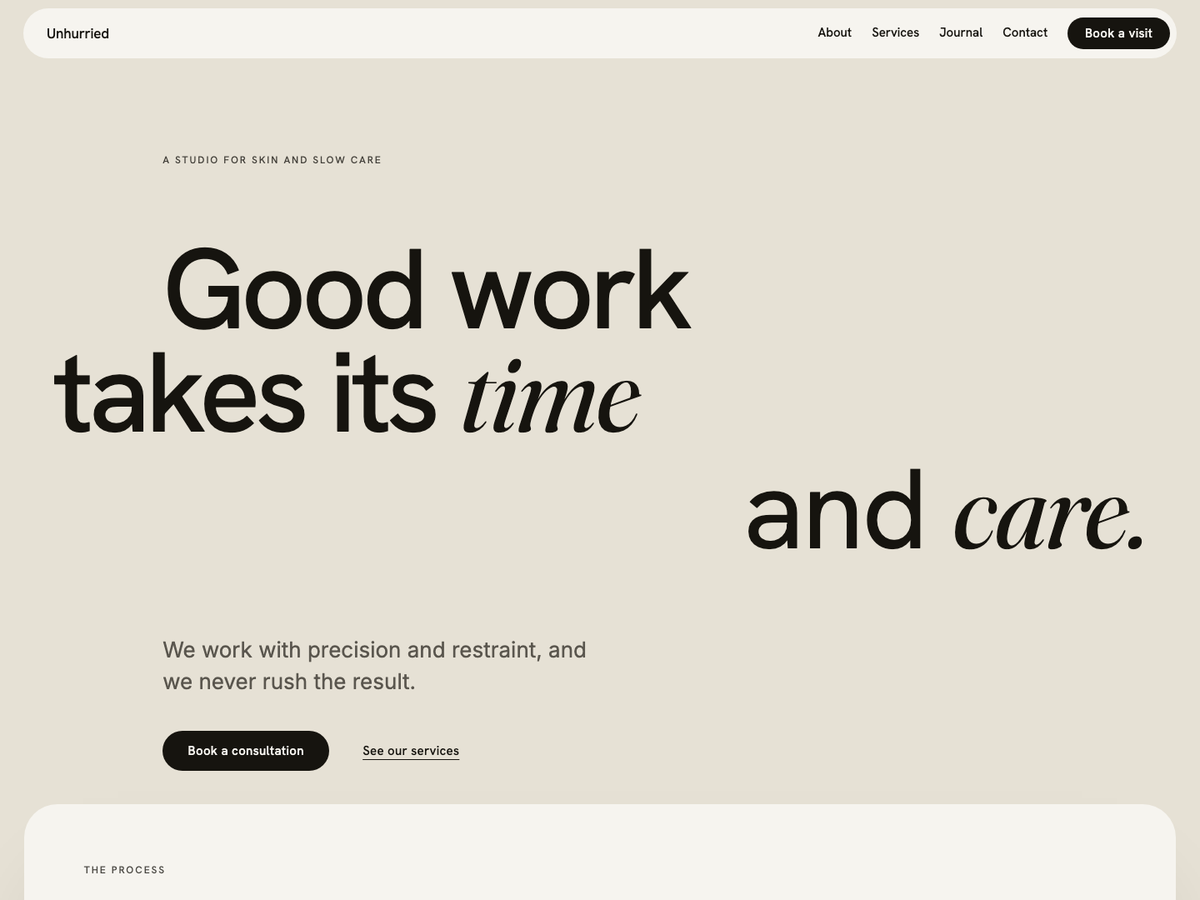
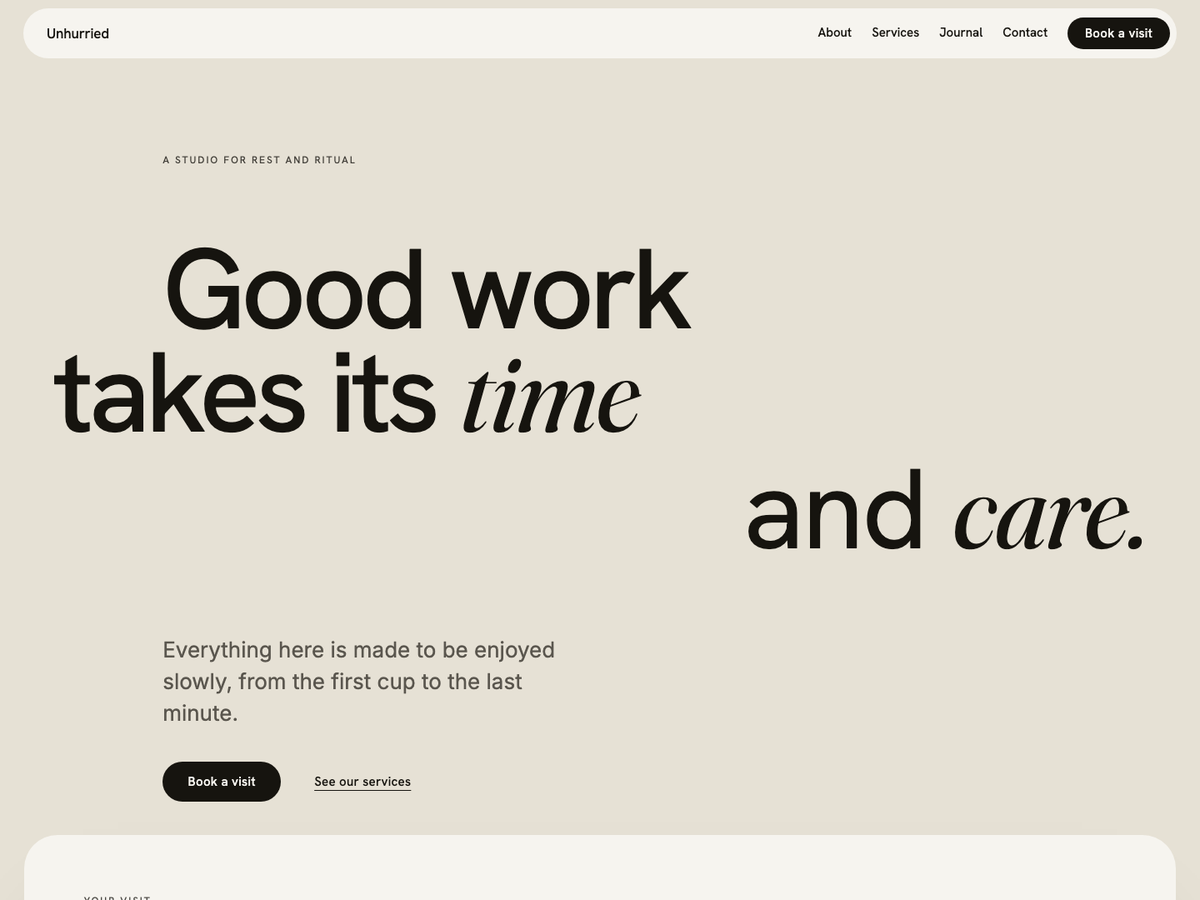
Neutral rest-and-ritual copy, author Switch Case Studio

Changed region(s): [[0.0, 0.7156, 0.9867, 0.9333], [0.2158, 0.1556, 0.3083, 0.1867], [0.0617, 0.9644, 0.1233, 1.0]]

diff --git a/style.css b/style.css
@@ -1,14 +1,13 @@
 /*
 Theme Name: Unhurried
-Theme URI: https://github.com/Object-ions/unhurried
-Author: Object-ions
-Author URI: https://github.com/Object-ions
-Description: Unhurried is a calm, editorial block theme for studios, clinics, spas and makers who sell care rather than speed. Warm bone and ink surfaces, floating panels that rise over the page, oversized display type with Fraunces italic accent words, and a gallery-monochrome image treatment give every page the feel of a printed lookbook. It ships with full-page patterns for a homepage, about, services and contact page, plus heroes, process steps, service accordions, pricing tiers, FAQs and a journal layout, all editable in the Site Editor.
+Author: Switch Case Studio
+Author URI: https://switchcasestudio.com
+Description: Unhurried is a calm, editorial block theme for studios, clinics, spas and makers who sell care rather than speed. Warm bone and ink surfaces, floating panels that rise over the page, oversized display type with Fraunces italic accent words, and a gallery-monochrome image treatment give every page the feel of a printed lookbook. It ships with full-page patterns for a homepage, about, services and contact page, plus heroes, visit steps, service accordions, membership tiers, FAQs and a stories layout, all editable in the Site Editor.
 Requires at least: 6.6
 Tested up to: 6.8
 Requires PHP: 7.4
 Version: 1.0.0
-Copyright: (c) 2026 Object-ions
+Copyright: (c) 2026 Moshe Atia Poston, Switch Case Studio
 License: GNU General Public License v2 or later
 License URI: https://www.gnu.org/licenses/gpl-2.0.html
 Text Domain: unhurried
@@ -111,7 +110,7 @@ img { height: auto; }
 }
 
 /* Small floating note card */
-.unhurried-note { max-width: min(100%, 26rem); }
+.unhurried-note { max-width: min(100%, 26rem); margin-left: 0 !important; }
 
 /* Staggered gallery row */
 .unhurried-stagger > .wp-block-image:nth-child(even),

diff --git a/patterns/process-panel.php b/patterns/process-panel.php
@@ -12,10 +12,10 @@
  */
 
 $unhurried_steps = array(
-	array( __( 'Consultation', 'unhurried' ), __( 'We listen first and look closely, then agree on what is worth doing.', 'unhurried' ) ),
-	array( __( 'A written plan', 'unhurried' ), __( 'Every step, every visit and every price, set out before anything begins.', 'unhurried' ) ),
-	array( __( 'Measured care', 'unhurried' ), __( 'Treatment at the pace your skin needs, never more than it needs.', 'unhurried' ) ),
-	array( __( 'Aftercare', 'unhurried' ), __( 'A follow-up call, clear home care and time to see the result settle.', 'unhurried' ) ),
+	array( __( 'Arrive', 'unhurried' ), __( 'Leave the day at the door. We will take it from here.', 'unhurried' ) ),
+	array( __( 'Settle in', 'unhurried' ), __( 'Tea, a warm room and ten quiet minutes before anything starts.', 'unhurried' ) ),
+	array( __( 'The ritual', 'unhurried' ), __( 'An hour or two that belongs entirely to you.', 'unhurried' ) ),
+	array( __( 'Take it home', 'unhurried' ), __( 'Something small to take home, and a reason to come back.', 'unhurried' ) ),
 );
 ?>
 <!-- wp:group {"metadata":{"name":"<?php echo esc_attr_x( 'Process', 'Pattern block name', 'unhurried' ); ?>"},"align":"full","className":"is-style-section-ground","style":{"spacing":{"padding":{"top":"0","bottom":"var:preset|spacing|80","left":"clamp(12px, 2vw, 44px)","right":"clamp(12px, 2vw, 44px)"},"margin":{"top":"0","bottom":"0"}}},"layout":{"type":"default"}} -->
@@ -25,10 +25,10 @@ $unhurried_steps = array(
 		<!-- wp:group {"style":{"spacing":{"blockGap":"var:preset|spacing|50"}},"layout":{"type":"default"}} -->
 		<div class="wp-block-group">
 			<!-- wp:paragraph {"className":"is-style-eyebrow"} -->
-			<p class="is-style-eyebrow"><?php esc_html_e( 'The process', 'unhurried' ); ?></p>
+			<p class="is-style-eyebrow"><?php esc_html_e( 'Your visit', 'unhurried' ); ?></p>
 			<!-- /wp:paragraph -->
 			<!-- wp:heading {"fontSize":"xx-large"} -->
-			<h2 class="wp-block-heading has-xx-large-font-size"><?php echo wp_kses( __( 'Beauty, restored<br><em>not</em> acquired', 'unhurried' ), array( 'em' => array(), 'br' => array() ) ); ?></h2>
+			<h2 class="wp-block-heading has-xx-large-font-size"><?php echo wp_kses( __( 'How a visit<br><em>unfolds</em>', 'unhurried' ), array( 'em' => array(), 'br' => array() ) ); ?></h2>
 			<!-- /wp:heading -->
 		</div>
 		<!-- /wp:group -->
@@ -54,12 +54,12 @@ $unhurried_steps = array(
 		<!-- wp:group {"style":{"spacing":{"blockGap":"var:preset|spacing|60"}},"layout":{"type":"flex","flexWrap":"wrap","justifyContent":"space-between","verticalAlignment":"bottom"}} -->
 		<div class="wp-block-group">
 			<!-- wp:paragraph {"className":"is-style-statement","style":{"layout":{"selfStretch":"fixed","flexSize":"min(100%, 22ch)"}}} -->
-			<p class="is-style-statement"><?php echo wp_kses( __( 'One measured arc of care, <em>every price</em> visible before you commit.', 'unhurried' ), array( 'em' => array() ) ); ?></p>
+			<p class="is-style-statement"><?php echo wp_kses( __( 'No clocks on the walls, <em>no rush</em> at the door.', 'unhurried' ), array( 'em' => array() ) ); ?></p>
 			<!-- /wp:paragraph -->
 			<!-- wp:buttons -->
 			<div class="wp-block-buttons">
 				<!-- wp:button -->
-				<div class="wp-block-button"><a class="wp-block-button__link wp-element-button" href="#"><?php esc_html_e( 'Start with a consultation', 'unhurried' ); ?></a></div>
+				<div class="wp-block-button"><a class="wp-block-button__link wp-element-button" href="#"><?php esc_html_e( 'Plan a visit', 'unhurried' ); ?></a></div>
 				<!-- /wp:button -->
 			</div>
 			<!-- /wp:buttons -->

diff --git a/patterns/hero-staggered.php b/patterns/hero-staggered.php
@@ -1,7 +1,7 @@
 <?php
 /**
- * Title: Hero, measured type
- * Slug: unhurried/hero-measured
+ * Title: Hero, staggered type
+ * Slug: unhurried/hero-staggered
  * Categories: unhurried_hero, featured
  * Keywords: hero, header, intro, headline
  * Viewport width: 1400
@@ -15,7 +15,7 @@
 <!-- wp:group {"metadata":{"name":"<?php echo esc_attr_x( 'Hero', 'Pattern block name', 'unhurried' ); ?>"},"align":"full","className":"is-style-section-ground","style":{"spacing":{"padding":{"top":"var:preset|spacing|80","bottom":"calc(clamp(80px, 11vw, 160px) + 2.5rem)"},"margin":{"top":"0","bottom":"0"},"blockGap":"0"}},"layout":{"type":"constrained","contentSize":"1360px"}} -->
 <div class="wp-block-group alignfull is-style-section-ground" style="margin-top:0;margin-bottom:0;padding-top:var(--wp--preset--spacing--80);padding-bottom:calc(clamp(80px, 11vw, 160px) + 2.5rem)">
 	<!-- wp:paragraph {"className":"is-style-eyebrow unhurried-indent unhurried-reveal","style":{"spacing":{"margin":{"bottom":"clamp(2rem, 8vh, 6rem)"}}}} -->
-	<p class="is-style-eyebrow unhurried-indent unhurried-reveal" style="margin-bottom:clamp(2rem, 8vh, 6rem)"><?php esc_html_e( 'A studio for skin and slow care', 'unhurried' ); ?></p>
+	<p class="is-style-eyebrow unhurried-indent unhurried-reveal" style="margin-bottom:clamp(2rem, 8vh, 6rem)"><?php esc_html_e( 'A studio for rest and ritual', 'unhurried' ); ?></p>
 	<!-- /wp:paragraph -->
 	<!-- wp:heading {"level":1,"className":"unhurried-first-indent unhurried-reveal","style":{"typography":{"lineHeight":"0.9","letterSpacing":"-0.04em"}},"fontSize":"huge"} -->
 	<h1 class="wp-block-heading unhurried-first-indent unhurried-reveal has-huge-font-size" style="letter-spacing:-0.04em;line-height:0.9"><?php echo wp_kses( __( 'Good work<br>takes its <em>time</em>', 'unhurried' ), array( 'em' => array(), 'br' => array() ) ); ?></h1>
@@ -26,12 +26,12 @@
 	<!-- wp:group {"className":"unhurried-indent unhurried-reveal","style":{"spacing":{"margin":{"top":"clamp(2.5rem, 8vh, 6rem)"},"blockGap":"var:preset|spacing|60"}},"layout":{"type":"constrained","contentSize":"32ch","justifyContent":"left"}} -->
 	<div class="wp-block-group unhurried-indent unhurried-reveal" style="margin-top:clamp(2.5rem, 8vh, 6rem)">
 		<!-- wp:paragraph {"textColor":"contrast-2","fontSize":"large","style":{"typography":{"lineHeight":"1.45"}}} -->
-		<p class="has-contrast-2-color has-text-color has-large-font-size" style="line-height:1.45"><?php esc_html_e( 'We work with precision and restraint, and we never rush the result.', 'unhurried' ); ?></p>
+		<p class="has-contrast-2-color has-text-color has-large-font-size" style="line-height:1.45"><?php esc_html_e( 'Everything here is made to be enjoyed slowly, from the first cup to the last minute.', 'unhurried' ); ?></p>
 		<!-- /wp:paragraph -->
 		<!-- wp:buttons {"style":{"spacing":{"blockGap":{"left":"var:preset|spacing|60"}}}} -->
 		<div class="wp-block-buttons">
 			<!-- wp:button -->
-			<div class="wp-block-button"><a class="wp-block-button__link wp-element-button" href="#"><?php esc_html_e( 'Book a consultation', 'unhurried' ); ?></a></div>
+			<div class="wp-block-button"><a class="wp-block-button__link wp-element-button" href="#"><?php esc_html_e( 'Book a visit', 'unhurried' ); ?></a></div>
 			<!-- /wp:button -->
 			<!-- wp:button {"className":"is-style-text-link"} -->
 			<div class="wp-block-button is-style-text-link"><a class="wp-block-button__link wp-element-button" href="#"><?php esc_html_e( 'See our services', 'unhurried' ); ?></a></div>

diff --git a/patterns/team.php b/patterns/team.php
@@ -1,18 +1,18 @@
 <?php
 /**
- * Title: Practitioner feature
+ * Title: Team feature
  * Slug: unhurried/team
  * Categories: team, about
- * Keywords: team, practitioner, founder, about, portrait
+ * Keywords: team, people, founder, about, portrait
  * Viewport width: 1400
- * Description: One large portrait beside a statement about the person behind the work.
+ * Description: One large image beside a short introduction to the people who run the place.
  *
  * @package Unhurried
  * @since 1.0.0
  */
 
 ?>
-<!-- wp:group {"metadata":{"name":"<?php echo esc_attr_x( 'Practitioner', 'Pattern block name', 'unhurried' ); ?>"},"align":"full","className":"is-style-section-ink","style":{"spacing":{"padding":{"top":"var:preset|spacing|90","bottom":"var:preset|spacing|90"},"margin":{"top":"0","bottom":"0"}}},"layout":{"type":"constrained","contentSize":"1360px"}} -->
+<!-- wp:group {"metadata":{"name":"<?php echo esc_attr_x( 'Team', 'Pattern block name', 'unhurried' ); ?>"},"align":"full","className":"is-style-section-ink","style":{"spacing":{"padding":{"top":"var:preset|spacing|90","bottom":"var:preset|spacing|90"},"margin":{"top":"0","bottom":"0"}}},"layout":{"type":"constrained","contentSize":"1360px"}} -->
 <div class="wp-block-group alignfull is-style-section-ink" style="margin-top:0;margin-bottom:0;padding-top:var(--wp--preset--spacing--90);padding-bottom:var(--wp--preset--spacing--90)">
 	<!-- wp:columns {"verticalAlignment":"center","style":{"spacing":{"blockGap":{"top":"var:preset|spacing|60","left":"var:preset|spacing|80"}}}} -->
 	<div class="wp-block-columns are-vertically-aligned-center">
@@ -26,13 +26,13 @@
 		<!-- wp:column {"verticalAlignment":"center","width":"60%","className":"unhurried-reveal","style":{"spacing":{"blockGap":"var:preset|spacing|60"}}} -->
 		<div class="wp-block-column is-vertically-aligned-center unhurried-reveal" style="flex-basis:60%">
 			<!-- wp:paragraph {"className":"is-style-eyebrow"} -->
-			<p class="is-style-eyebrow"><?php esc_html_e( 'The practice', 'unhurried' ); ?></p>
+			<p class="is-style-eyebrow"><?php esc_html_e( 'Our team', 'unhurried' ); ?></p>
 			<!-- /wp:paragraph -->
 			<!-- wp:heading {"fontSize":"huge","style":{"typography":{"lineHeight":"0.92","letterSpacing":"-0.04em"}}} -->
-			<h2 class="wp-block-heading has-huge-font-size" style="letter-spacing:-0.04em;line-height:0.92"><?php echo wp_kses( __( 'The hands behind the <em>work</em>', 'unhurried' ), array( 'em' => array() ) ); ?></h2>
+			<h2 class="wp-block-heading has-huge-font-size" style="letter-spacing:-0.04em;line-height:0.92"><?php echo wp_kses( __( 'The people you will <em>meet</em>', 'unhurried' ), array( 'em' => array() ) ); ?></h2>
 			<!-- /wp:heading -->
 			<!-- wp:paragraph {"fontSize":"large","style":{"typography":{"lineHeight":"1.45"}}} -->
-			<p class="has-large-font-size" style="line-height:1.45"><?php esc_html_e( 'Licensed, experienced and deliberately few. You will see the same practitioner from first consultation to final follow-up.', 'unhurried' ); ?></p>
+			<p class="has-large-font-size" style="line-height:1.45"><?php esc_html_e( 'Three of us, each with a decade of practice. You will get to know us by name.', 'unhurried' ); ?></p>
 			<!-- /wp:paragraph -->
 		</div>
 		<!-- /wp:column -->

diff --git a/patterns/statement-cover.php b/patterns/statement-cover.php
@@ -3,7 +3,7 @@
  * Title: Statement on image, with note card
  * Slug: unhurried/statement-cover
  * Categories: featured, about
- * Keywords: philosophy, statement, about, cover, quote
+ * Keywords: values, statement, about, cover, quote
  * Viewport width: 1400
  * Description: A dark full-bleed image with a right-aligned two-line statement and a frosted note card in the lower left.
  *
@@ -17,20 +17,20 @@
 	<!-- wp:group {"className":"unhurried-reveal","style":{"spacing":{"blockGap":"var:preset|spacing|50","margin":{"bottom":"var:preset|spacing|80"}}},"layout":{"type":"constrained","contentSize":"760px","justifyContent":"right"}} -->
 	<div class="wp-block-group unhurried-reveal" style="margin-bottom:var(--wp--preset--spacing--80)">
 		<!-- wp:paragraph {"align":"right","className":"is-style-eyebrow","textColor":"base"} -->
-		<p class="has-text-align-right is-style-eyebrow has-base-color has-text-color"><?php esc_html_e( 'Our philosophy', 'unhurried' ); ?></p>
+		<p class="has-text-align-right is-style-eyebrow has-base-color has-text-color"><?php esc_html_e( 'What we believe', 'unhurried' ); ?></p>
 		<!-- /wp:paragraph -->
 		<!-- wp:heading {"textAlign":"right","textColor":"base","fontSize":"xx-large"} -->
-		<h2 class="wp-block-heading has-text-align-right has-base-color has-text-color has-xx-large-font-size"><?php echo wp_kses( __( '<em>The art of</em><br>restoration', 'unhurried' ), array( 'em' => array(), 'br' => array() ) ); ?></h2>
+		<h2 class="wp-block-heading has-text-align-right has-base-color has-text-color has-xx-large-font-size"><?php echo wp_kses( __( '<em>Slow</em> is<br>a practice', 'unhurried' ), array( 'em' => array(), 'br' => array() ) ); ?></h2>
 		<!-- /wp:heading -->
 		<!-- wp:paragraph {"align":"right","textColor":"base","fontSize":"medium"} -->
-		<p class="has-text-align-right has-base-color has-text-color has-medium-font-size"><?php esc_html_e( 'Beautiful results come from a thoughtful mix of art and science, and from restraint before intervention.', 'unhurried' ); ?></p>
+		<p class="has-text-align-right has-base-color has-text-color has-medium-font-size"><?php esc_html_e( 'We leave space around every booking, so nobody watches the clock, including us.', 'unhurried' ); ?></p>
 		<!-- /wp:paragraph -->
 	</div>
 	<!-- /wp:group -->
 	<!-- wp:group {"className":"is-style-glass unhurried-note unhurried-reveal","style":{"spacing":{"blockGap":"var:preset|spacing|40"}},"layout":{"type":"default"}} -->
 	<div class="wp-block-group is-style-glass unhurried-note unhurried-reveal">
 		<!-- wp:paragraph {"fontSize":"small","textColor":"base"} -->
-		<p class="has-base-color has-text-color has-small-font-size"><?php esc_html_e( 'Every plan is tested against one question: does this serve the person in front of us, in their own proportion?', 'unhurried' ); ?></p>
+		<p class="has-base-color has-text-color has-small-font-size"><?php esc_html_e( 'Arrive ten minutes early. The kettle is always on.', 'unhurried' ); ?></p>
 		<!-- /wp:paragraph -->
 	</div>
 	<!-- /wp:group -->

diff --git a/patterns/services-accordion.php b/patterns/services-accordion.php
@@ -12,10 +12,10 @@
  */
 
 $unhurried_services = array(
-	array( __( 'Signature facial', 'unhurried' ), __( 'Ninety minutes of cleansing, gentle exfoliation and massage, fitted to your skin on the day.', 'unhurried' ) ),
-	array( __( 'Skin consultation', 'unhurried' ), __( 'A close look at your skin, your routine and your goals, with a written plan to take home.', 'unhurried' ) ),
-	array( __( 'Brightening peel', 'unhurried' ), __( 'A light, measured peel for tone and texture, with little to no downtime.', 'unhurried' ) ),
-	array( __( 'Seasonal programme', 'unhurried' ), __( 'Four visits across three months, planned together and paced for lasting change.', 'unhurried' ) ),
+	array( __( 'Signature massage', 'unhurried' ), __( 'Ninety minutes, warm oil and a pace set entirely by you.', 'unhurried' ) ),
+	array( __( 'First visit', 'unhurried' ), __( 'An easy first visit to talk through what you would like from us.', 'unhurried' ) ),
+	array( __( 'Hot stone ritual', 'unhurried' ), __( 'Warm stones and slow pressure to loosen a long week.', 'unhurried' ) ),
+	array( __( 'Ritual for two', 'unhurried' ), __( 'A shared room and two therapists, for you and someone you like.', 'unhurried' ) ),
 );
 ?>
 <!-- wp:cover {"url":"<?php echo esc_url( get_theme_file_uri( 'assets/images/drape.webp' ) ); ?>","dimRatio":50,"overlayColor":"contrast","minHeight":860,"minHeightUnit":"px","isDark":true,"metadata":{"name":"<?php echo esc_attr_x( 'Services', 'Pattern block name', 'unhurried' ); ?>"},"align":"full","className":"unhurried-mono","style":{"spacing":{"padding":{"top":"var:preset|spacing|80","bottom":"var:preset|spacing|80"},"margin":{"top":"0","bottom":"0"}}},"layout":{"type":"constrained","contentSize":"1360px"}} -->
@@ -25,10 +25,10 @@ $unhurried_services = array(
 		<!-- wp:column {"verticalAlignment":"center","width":"45%","style":{"spacing":{"blockGap":"var:preset|spacing|50"}}} -->
 		<div class="wp-block-column is-vertically-aligned-center" style="flex-basis:45%">
 			<!-- wp:paragraph {"className":"is-style-eyebrow","textColor":"base"} -->
-			<p class="is-style-eyebrow has-base-color has-text-color"><?php esc_html_e( 'Our services', 'unhurried' ); ?></p>
+			<p class="is-style-eyebrow has-base-color has-text-color"><?php esc_html_e( 'Rituals', 'unhurried' ); ?></p>
 			<!-- /wp:paragraph -->
 			<!-- wp:heading {"textColor":"base","fontSize":"xx-large"} -->
-			<h2 class="wp-block-heading has-base-color has-text-color has-xx-large-font-size"><?php echo wp_kses( __( 'A boutique experience,<br>made-to-measure <em>results</em>', 'unhurried' ), array( 'em' => array(), 'br' => array() ) ); ?></h2>
+			<h2 class="wp-block-heading has-base-color has-text-color has-xx-large-font-size"><?php echo wp_kses( __( 'Rituals for<br>the <em>whole</em> week', 'unhurried' ), array( 'em' => array(), 'br' => array() ) ); ?></h2>
 			<!-- /wp:heading -->
 		</div>
 		<!-- /wp:column -->

diff --git a/patterns/service-rows.php b/patterns/service-rows.php
@@ -12,10 +12,10 @@
  */
 
 $unhurried_rows = array(
-	array( 'orb', __( 'Signature facial', 'unhurried' ), __( 'Cleansing, gentle exfoliation and massage, fitted on the day.', 'unhurried' ), __( '90 min', 'unhurried' ), __( 'From $180', 'unhurried' ) ),
-	array( 'vessel', __( 'Brightening peel', 'unhurried' ), __( 'A light, measured peel for tone and texture.', 'unhurried' ), __( '45 min', 'unhurried' ), __( 'From $140', 'unhurried' ) ),
-	array( 'pedestal', __( 'Skin consultation', 'unhurried' ), __( 'A close look and a written plan to take home.', 'unhurried' ), __( '30 min', 'unhurried' ), __( 'Free', 'unhurried' ) ),
-	array( 'arch', __( 'Seasonal programme', 'unhurried' ), __( 'Four visits across three months, paced for lasting change.', 'unhurried' ), __( '4 visits', 'unhurried' ), __( 'From $620', 'unhurried' ) ),
+	array( 'orb', __( 'Signature massage', 'unhurried' ), __( 'Warm oil, slow hands, ninety minutes.', 'unhurried' ), __( '90 min', 'unhurried' ), __( 'From $180', 'unhurried' ) ),
+	array( 'vessel', __( 'Hot stone ritual', 'unhurried' ), __( 'Warm stones and slow pressure.', 'unhurried' ), __( '45 min', 'unhurried' ), __( 'From $140', 'unhurried' ) ),
+	array( 'pedestal', __( 'First visit', 'unhurried' ), __( 'An easy first visit to get to know you.', 'unhurried' ), __( '30 min', 'unhurried' ), __( 'Free', 'unhurried' ) ),
+	array( 'arch', __( 'Ritual for two', 'unhurried' ), __( 'For two, side by side.', 'unhurried' ), __( '4 visits', 'unhurried' ), __( 'From $620', 'unhurried' ) ),
 );
 ?>
 <!-- wp:group {"metadata":{"name":"<?php echo esc_attr_x( 'Services index', 'Pattern block name', 'unhurried' ); ?>"},"align":"full","style":{"spacing":{"padding":{"top":"var:preset|spacing|80","bottom":"var:preset|spacing|80"},"margin":{"top":"0","bottom":"0"},"blockGap":"var:preset|spacing|70"}},"layout":{"type":"constrained","contentSize":"1360px"}} -->
@@ -26,7 +26,7 @@ $unhurried_rows = array(
 		<h2 class="wp-block-heading has-xx-large-font-size"><?php echo wp_kses( __( 'The <em>menu</em>', 'unhurried' ), array( 'em' => array() ) ); ?></h2>
 		<!-- /wp:heading -->
 		<!-- wp:paragraph {"textColor":"contrast-2","style":{"layout":{"selfStretch":"fixed","flexSize":"min(100%, 36ch)"}}} -->
-		<p class="has-contrast-2-color has-text-color"><?php esc_html_e( 'Every price is listed. Every plan starts with a free consultation.', 'unhurried' ); ?></p>
+		<p class="has-contrast-2-color has-text-color"><?php esc_html_e( 'Prices include tea, time to linger and no rush at the door.', 'unhurried' ); ?></p>
 		<!-- /wp:paragraph -->
 	</div>
 	<!-- /wp:group -->

diff --git a/patterns/cta-split.php b/patterns/cta-split.php
@@ -3,7 +3,7 @@
  * Title: Call to action, image and card
  * Slug: unhurried/cta-split
  * Categories: call-to-action, featured
- * Keywords: cta, contact, book, consultation
+ * Keywords: cta, contact, book, visit
  * Viewport width: 1400
  * Description: A monochrome image joined to a Bone card with a headline, a short note and a button.
  *
@@ -26,15 +26,15 @@
 		<!-- wp:column {"verticalAlignment":"center","style":{"spacing":{"padding":{"top":"var:preset|spacing|70","bottom":"var:preset|spacing|70","left":"var:preset|spacing|70","right":"var:preset|spacing|70"},"blockGap":"var:preset|spacing|50"},"border":{"radius":{"topRight":"24px","bottomRight":"24px"}}},"backgroundColor":"base"} -->
 		<div class="wp-block-column is-vertically-aligned-center has-base-background-color has-background" style="border-top-right-radius:24px;border-bottom-right-radius:24px;padding-top:var(--wp--preset--spacing--70);padding-right:var(--wp--preset--spacing--70);padding-bottom:var(--wp--preset--spacing--70);padding-left:var(--wp--preset--spacing--70)">
 			<!-- wp:heading {"fontSize":"xx-large"} -->
-			<h2 class="wp-block-heading has-xx-large-font-size"><?php echo wp_kses( __( 'We love<br>your <em>skin</em>', 'unhurried' ), array( 'em' => array(), 'br' => array() ) ); ?></h2>
+			<h2 class="wp-block-heading has-xx-large-font-size"><?php echo wp_kses( __( 'Make some<br><em>time</em> for it', 'unhurried' ), array( 'em' => array(), 'br' => array() ) ); ?></h2>
 			<!-- /wp:heading -->
 			<!-- wp:paragraph {"textColor":"contrast-2"} -->
-			<p class="has-contrast-2-color has-text-color"><?php esc_html_e( 'Send us a note and we will reply within one business day. The first conversation is always free.', 'unhurried' ); ?></p>
+			<p class="has-contrast-2-color has-text-color"><?php esc_html_e( 'Pick a morning, an afternoon or a whole Saturday. We will keep it quiet for you.', 'unhurried' ); ?></p>
 			<!-- /wp:paragraph -->
 			<!-- wp:buttons -->
 			<div class="wp-block-buttons">
 				<!-- wp:button -->
-				<div class="wp-block-button"><a class="wp-block-button__link wp-element-button" href="#"><?php esc_html_e( 'Request a consultation', 'unhurried' ); ?></a></div>
+				<div class="wp-block-button"><a class="wp-block-button__link wp-element-button" href="#"><?php esc_html_e( 'Book a visit', 'unhurried' ); ?></a></div>
 				<!-- /wp:button -->
 			</div>
 			<!-- /wp:buttons -->

diff --git a/patterns/pricing.php b/patterns/pricing.php
@@ -12,15 +12,15 @@
  */
 
 $unhurried_tiers = array(
-	array( __( 'Essential', 'unhurried' ), '$120', __( 'One visit a month, a written plan and home-care notes.', 'unhurried' ), false ),
-	array( __( 'Seasonal', 'unhurried' ), '$220', __( 'Two visits a month for a season, with a mid-point review.', 'unhurried' ), true ),
-	array( __( 'Year of care', 'unhurried' ), '$390', __( 'A year planned together, with priority booking and quarterly reviews.', 'unhurried' ), false ),
+	array( __( 'Monthly', 'unhurried' ), '$120', __( 'One visit a month and a member price on everything else.', 'unhurried' ), false ),
+	array( __( 'Fortnightly', 'unhurried' ), '$220', __( 'Two visits a month and a guest pass each season.', 'unhurried' ), true ),
+	array( __( 'Regular', 'unhurried' ), '$390', __( 'Unlimited visits, first pick of new rituals and a guest pass each season.', 'unhurried' ), false ),
 );
 ?>
 <!-- wp:group {"metadata":{"name":"<?php echo esc_attr_x( 'Pricing', 'Pattern block name', 'unhurried' ); ?>"},"align":"full","className":"is-style-section-ground","style":{"spacing":{"padding":{"top":"var:preset|spacing|80","bottom":"var:preset|spacing|80"},"margin":{"top":"0","bottom":"0"},"blockGap":"var:preset|spacing|70"}},"layout":{"type":"constrained","contentSize":"1360px"}} -->
 <div class="wp-block-group alignfull is-style-section-ground" style="margin-top:0;margin-bottom:0;padding-top:var(--wp--preset--spacing--80);padding-bottom:var(--wp--preset--spacing--80)">
 	<!-- wp:heading {"textAlign":"center","fontSize":"xx-large"} -->
-	<h2 class="wp-block-heading has-text-align-center has-xx-large-font-size"><?php echo wp_kses( __( 'A year of <em>care</em>', 'unhurried' ), array( 'em' => array() ) ); ?></h2>
+	<h2 class="wp-block-heading has-text-align-center has-xx-large-font-size"><?php echo wp_kses( __( 'Come <em>often</em>', 'unhurried' ), array( 'em' => array() ) ); ?></h2>
 	<!-- /wp:heading -->
 	<!-- wp:columns {"style":{"spacing":{"blockGap":{"top":"var:preset|spacing|40","left":"var:preset|spacing|40"}}}} -->
 	<div class="wp-block-columns">

diff --git a/patterns/hero-split.php b/patterns/hero-split.php
@@ -19,13 +19,13 @@
 		<!-- wp:column {"verticalAlignment":"bottom","width":"58%","className":"unhurried-reveal","style":{"spacing":{"blockGap":"var:preset|spacing|60"}}} -->
 		<div class="wp-block-column is-vertically-aligned-bottom unhurried-reveal" style="flex-basis:58%">
 			<!-- wp:paragraph {"className":"is-style-eyebrow"} -->
-			<p class="is-style-eyebrow"><?php esc_html_e( 'About the studio', 'unhurried' ); ?></p>
+			<p class="is-style-eyebrow"><?php esc_html_e( 'About us', 'unhurried' ); ?></p>
 			<!-- /wp:paragraph -->
 			<!-- wp:heading {"level":1,"fontSize":"huge","style":{"typography":{"lineHeight":"0.9","letterSpacing":"-0.04em"}}} -->
-			<h1 class="wp-block-heading has-huge-font-size" style="letter-spacing:-0.04em;line-height:0.9"><?php echo wp_kses( __( 'Quiet, exacting, <em>unhurried</em>', 'unhurried' ), array( 'em' => array() ) ); ?></h1>
+			<h1 class="wp-block-heading has-huge-font-size" style="letter-spacing:-0.04em;line-height:0.9"><?php echo wp_kses( __( 'A room to <em>breathe</em>', 'unhurried' ), array( 'em' => array() ) ); ?></h1>
 			<!-- /wp:heading -->
 			<!-- wp:paragraph {"textColor":"contrast-2","fontSize":"large","style":{"typography":{"lineHeight":"1.45"}}} -->
-			<p class="has-contrast-2-color has-text-color has-large-font-size" style="line-height:1.45"><?php esc_html_e( 'A small, practitioner-led studio. You will always know who is caring for you, and why.', 'unhurried' ); ?></p>
+			<p class="has-contrast-2-color has-text-color has-large-font-size" style="line-height:1.45"><?php esc_html_e( 'A small room with big windows, good tea and a playlist we are quietly proud of.', 'unhurried' ); ?></p>
 			<!-- /wp:paragraph -->
 		</div>
 		<!-- /wp:column -->

diff --git a/patterns/journal-latest.php b/patterns/journal-latest.php
@@ -18,13 +18,13 @@
 	<!-- wp:group {"className":"unhurried-reveal","style":{"spacing":{"blockGap":"var:preset|spacing|40"}},"layout":{"type":"constrained","contentSize":"640px"}} -->
 	<div class="wp-block-group unhurried-reveal">
 		<!-- wp:paragraph {"align":"center","className":"is-style-eyebrow"} -->
-		<p class="has-text-align-center is-style-eyebrow"><?php esc_html_e( 'The Journal', 'unhurried' ); ?></p>
+		<p class="has-text-align-center is-style-eyebrow"><?php esc_html_e( 'Stories', 'unhurried' ); ?></p>
 		<!-- /wp:paragraph -->
 		<!-- wp:heading {"textAlign":"center","fontSize":"xx-large"} -->
-		<h2 class="wp-block-heading has-text-align-center has-xx-large-font-size"><?php echo wp_kses( __( 'Notes on <em>skin</em>', 'unhurried' ), array( 'em' => array() ) ); ?></h2>
+		<h2 class="wp-block-heading has-text-align-center has-xx-large-font-size"><?php echo wp_kses( __( 'From the <em>studio</em>', 'unhurried' ), array( 'em' => array() ) ); ?></h2>
 		<!-- /wp:heading -->
 		<!-- wp:paragraph {"align":"center","textColor":"contrast-2"} -->
-		<p class="has-text-align-center has-contrast-2-color has-text-color"><?php echo wp_kses( __( 'Short, honest notes from the studio: what treatments <em>actually</em> do, and how to care for your skin between visits.', 'unhurried' ), array( 'em' => array() ) ); ?></p>
+		<p class="has-text-align-center has-contrast-2-color has-text-color"><?php echo wp_kses( __( 'Recipes, reading lists and <em>small</em> rituals to try at home.', 'unhurried' ), array( 'em' => array() ) ); ?></p>
 		<!-- /wp:paragraph -->
 	</div>
 	<!-- /wp:group -->

diff --git a/patterns/faq.php b/patterns/faq.php
@@ -12,10 +12,10 @@
  */
 
 $unhurried_faqs = array(
-	array( __( 'What happens at a first visit?', 'unhurried' ), __( 'We talk, we look closely at your skin and we agree on a plan. Nothing is booked or charged until you are sure.', 'unhurried' ) ),
-	array( __( 'How far ahead should I book?', 'unhurried' ), __( 'Most weeks we have openings within ten days. Programmes are planned together at your consultation.', 'unhurried' ) ),
+	array( __( 'What happens at a first visit?', 'unhurried' ), __( 'A short chat, a warm drink and a tour of the room. Then the time is yours.', 'unhurried' ) ),
+	array( __( 'How far ahead should I book?', 'unhurried' ), __( 'A week or two is usually plenty. Weekend mornings go first.', 'unhurried' ) ),
 	array( __( 'Can I change or cancel?', 'unhurried' ), __( 'Yes. Give us 48 hours and there is no fee.', 'unhurried' ) ),
-	array( __( 'Do you sell products?', 'unhurried' ), __( 'A short, carefully chosen range. We only recommend what your plan actually needs.', 'unhurried' ) ),
+	array( __( 'Do you sell products?', 'unhurried' ), __( 'A small shelf of things we use ourselves, and nothing we would not.', 'unhurried' ) ),
 );
 ?>
 <!-- wp:group {"metadata":{"name":"<?php echo esc_attr_x( 'FAQ', 'Pattern block name', 'unhurried' ); ?>"},"align":"full","backgroundColor":"base-2","style":{"spacing":{"padding":{"top":"var:preset|spacing|80","bottom":"var:preset|spacing|80"},"margin":{"top":"0","bottom":"0"}}},"layout":{"type":"constrained","contentSize":"1360px"}} -->
